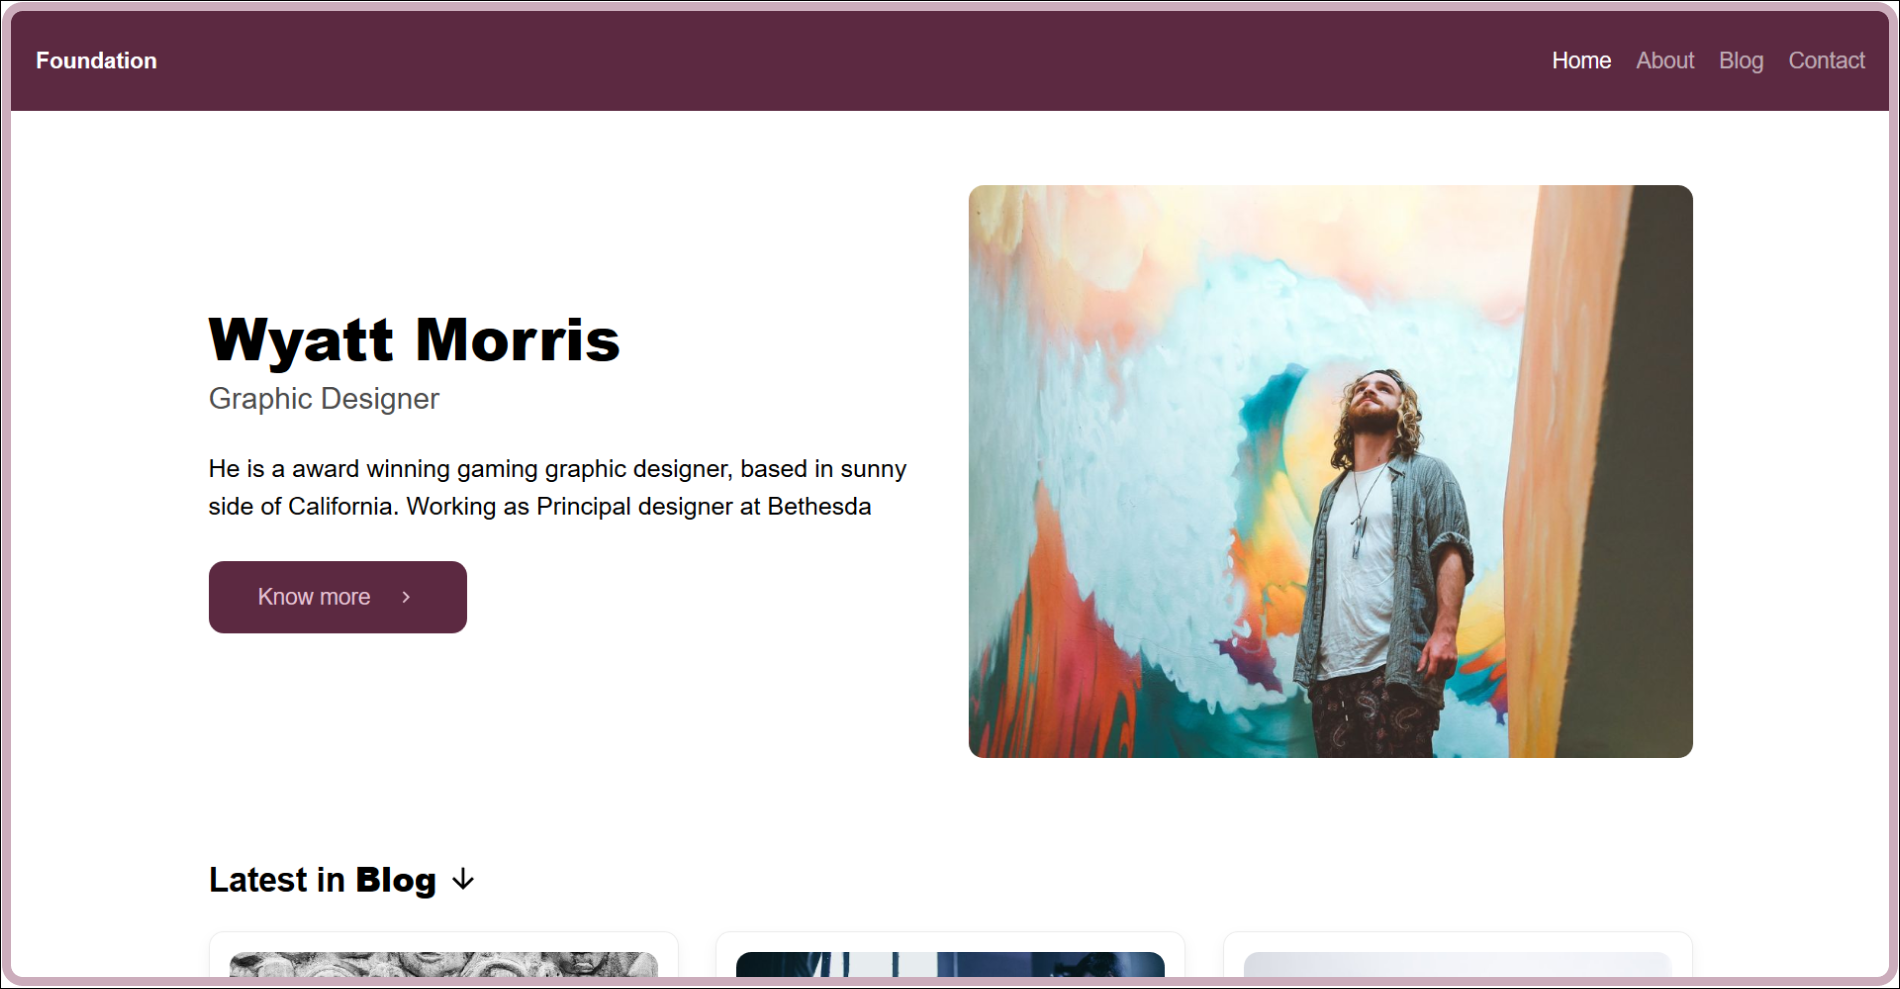
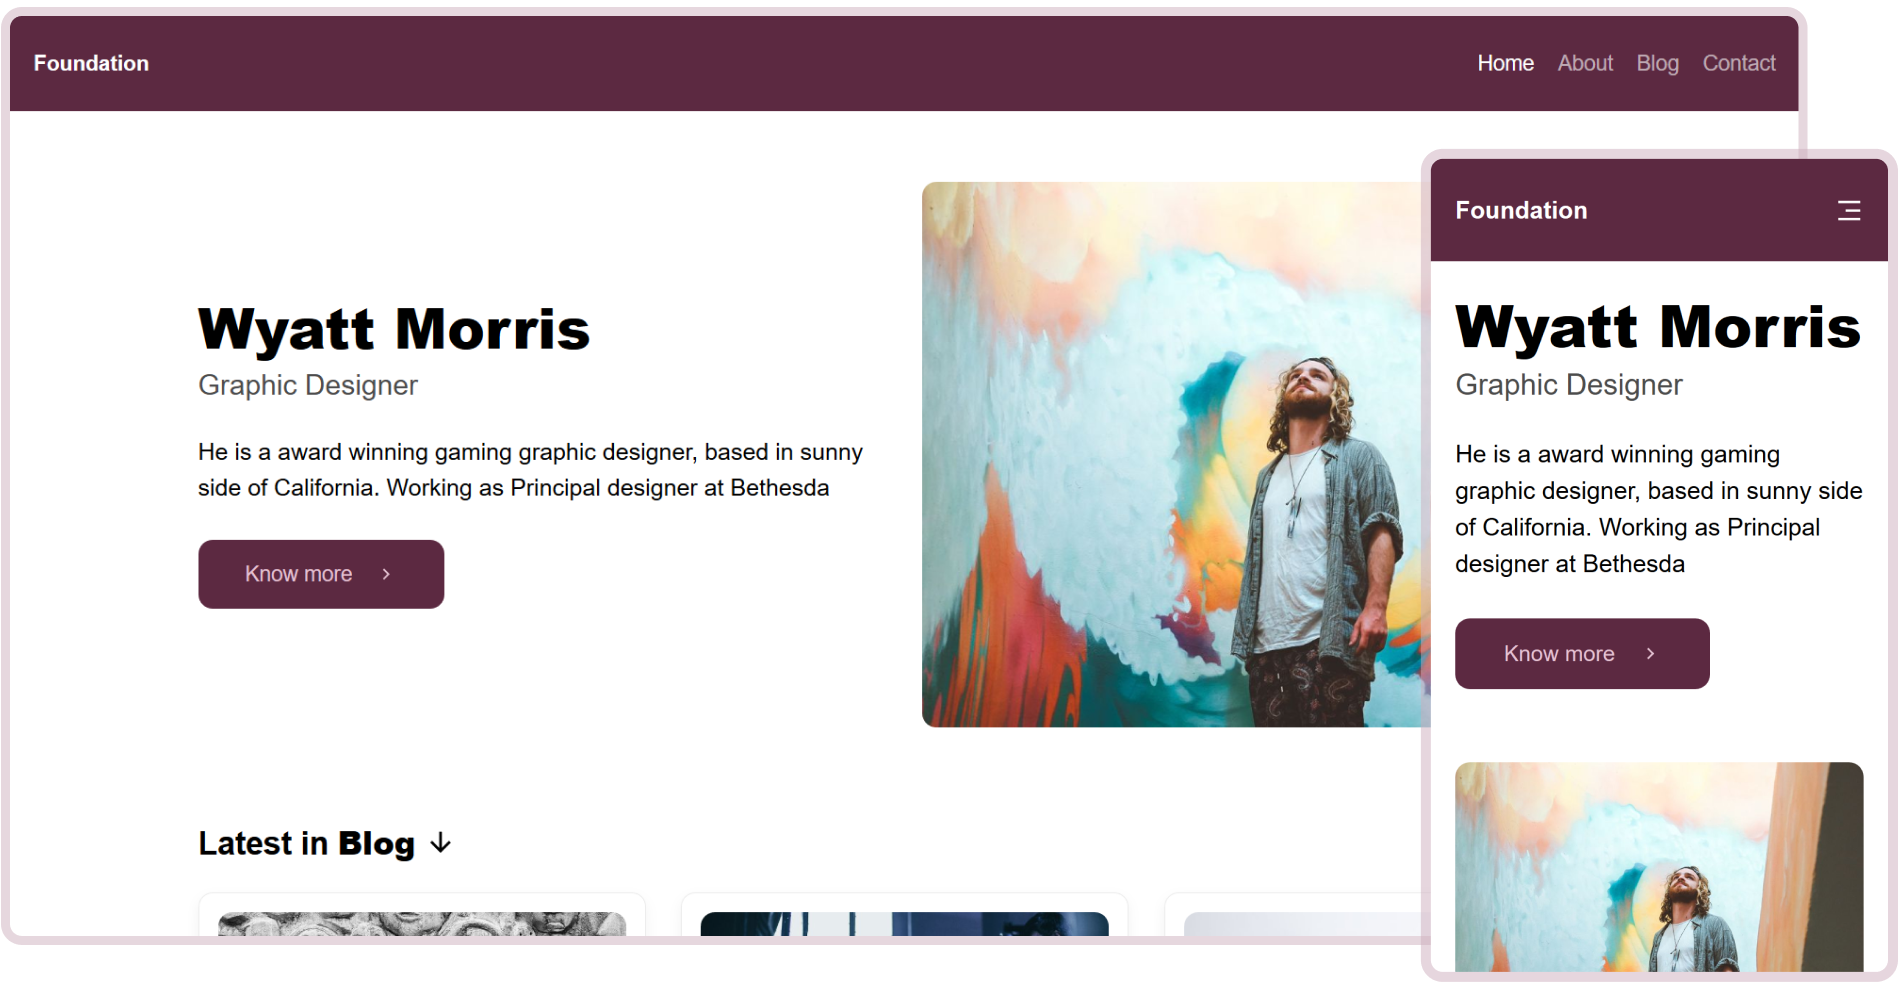
Add color to mobile menu, Update readme, screenshot

diff --git a/src/assets/scss/style.scss b/src/assets/scss/style.scss
@@ -73,9 +73,10 @@
       right: 0;
       top: 100%;
       z-index: 1;
-      background: #222;
+      background: #421E2F;
       width: 100%;
-      max-width: 320px;
+			max-width: 320px;    
+			border-radius: 0 0 0 12px;
       overflow: hidden;
     }
     ul li {
@@ -87,7 +88,7 @@
       padding: 20px;
     }
     a:hover {
-      background-color: var(--nav-link-hover-bg);
+      background-color: #29121D;
     }
   }
 }

diff --git a/README.md b/README.md
@@ -16,13 +16,14 @@ Just click on the **Deploy to Netlify** button.
 This would fork `gatsby-starter-foundation` to your Github account and start builing your website on [Netlify](https://netlify.com). Once the deployment is done. Your website will be live and website address would look like **site-name.netlify.app**
 
 ### Further Instructions
-- Access to Netlify CMS
-- Editing content and Adding posts
-- Customing Site details
-- Adding Custom domain to netlify website
-- Install Locally
-- Folder Structure
-- Learning Gatsby
+- [Access to Netlify CMS](#access-to-netlify-cms)
+- [Editing content and Adding posts](#editing-content-and-adding-posts)
+- [Customing Site details](#customing-site-details)
+- [Adding Custom domain to netlify website](#adding-custom-domain-to-netlify-website)
+- [Install Locally](#install-locally)
+- [Folder Structure](#folder-structure)
+- [Learning Gatsby](#learning-gatsby)
+- [Thank you from Stackrole](#thank-you)
 
 ## Access to Netlify CMS
 - Goto app.netlify.com > select your website from the list
@@ -42,7 +43,7 @@ You can find all the website settings such website Site title, Website URL, Goog
 
 
 ## Adding Custom domain to netlify website
-We have written a short article on [Custom domain with Netlify website](custom domain)
+We have written a short article on [Custom domain with Netlify website](custom-domain)
 
 ## Install Locally
 Use the Gatsby CLI to create a new site, specifying the `gatsby-starter-foundation` starter.
@@ -128,4 +129,4 @@ Feel free to ping [@stackrole](stackrole) for help regarding your JAMstack websi
 [netlifyCMS]: https://www.netlifycms.org
 [stackrole]: https://stackrole.com
 [twitter]: https://twitter.com/stackrole
-[custom domain]: https://stackrole.com/adding-custom-domain-netlify
+[custom-domain]: https://stackrole.com/adding-custom-domain-netlify
